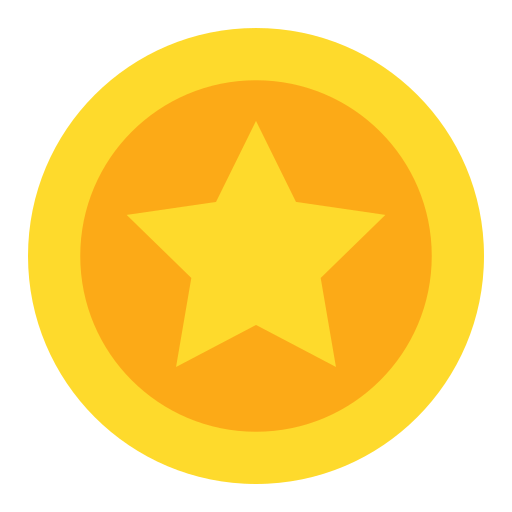
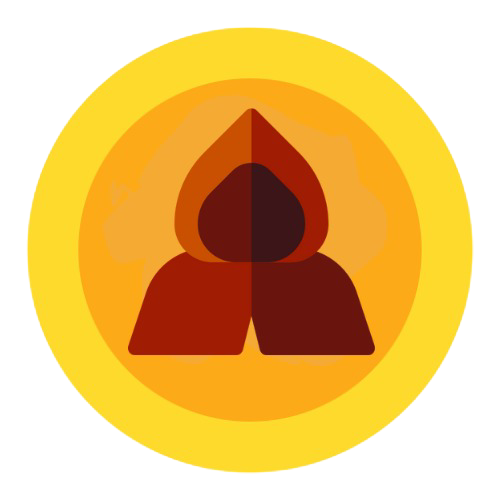
added crying emoji for losing

Changed region(s): [[0.21, 0.18, 0.78, 0.75], [0.93, 0.48, 0.96, 0.51]]

diff --git a/src/components/Journey/Feedback.jsx b/src/components/Journey/Feedback.jsx
@@ -8,6 +8,7 @@ import edinburgh from '../../assets/backgrounds/edinburgh.png';
 import leeds from '../../assets/backgrounds/leeds.png';
 import london from '../../assets/backgrounds/london.png';
 import town from '../../assets/backgrounds/town.png';
+import crying from '../../assets/emotions/crying.png';
 
 export const Feedback = () => {
   const location = useLocation();
@@ -25,12 +26,12 @@ export const Feedback = () => {
   console.log({linkText});
   console.log({url});
   
-  
   const isLastStep = step === journeySteps.length - 1;
 
   const chapter = journeySteps[step].chapter;
 
   const winOrLose = add ? `🎉 You have gained ${points} SW Coins!` : `😢 You lost  ${points} SW Coins!`;
+  const displayImage = add ? image : crying; 
 
   const chooseBackground = () => {
     switch (chapter) {
@@ -53,8 +54,8 @@ export const Feedback = () => {
     <>
       <Heading text={title} />
       <div className="absolute inset-0 bg-cover bg-center h-[50rem] z-[-1]" style={chooseBackground()}></div>
-      <div className="flex flex-col items-center gap-12 justify-center h-screen">
-        <img src={image} alt="Feedback Emotion" className="w-24 h-24" />
+      <div className="flex flex-col items-center gap-12 justify-center h-screen">        
+        <img src={displayImage} alt="Feedback Emotion" className="w-24 h-24 fade-in" />
         <div className="flex flex-col items-center bg-white w-[50%] rounded-lg p-8 gap-4">
           <p className="text-2xl font-semibold">{winOrLose}</p>
           <h3 className="text-2xl font-semibold">{`🔹 ${outcome}`}</h3>

diff --git a/src/components/Journey/Journey.jsx b/src/components/Journey/Journey.jsx
@@ -5,6 +5,8 @@ import { journeySteps } from "../../steps";
 import { useNavigate, useLocation } from "react-router-dom";
 import { Choice } from "./Choice";
 import { usePoints } from '../../hooks/usePoints';
+import swLogo from "../../assets/swlogo.png";
+
 
 export const Journey = () => {
   const location = useLocation();
@@ -106,7 +108,7 @@ export const Journey = () => {
 
   return (
     <>
-      <Heading text={chapter} title={title} />
+      <Heading text={chapter} title={title} image= {swLogo}/>
       <HeroBanner question={question} chapter={chapter} />
       <div className="flex flex-col items-center justify-center mt-16">
         <div className="flex justify-center items-center">

diff --git a/src/styles.css b/src/styles.css
@@ -12,3 +12,16 @@
   border: 5px solid #14525e;
   border-radius: 50%;
 }
+
+.fade-in {
+  animation: fadeIn 1s ease-in-out;
+}
+
+@keyframes fadeIn {
+  0% {
+    opacity: 0;
+  }
+  100% {
+    opacity: 1;
+  }
+}
